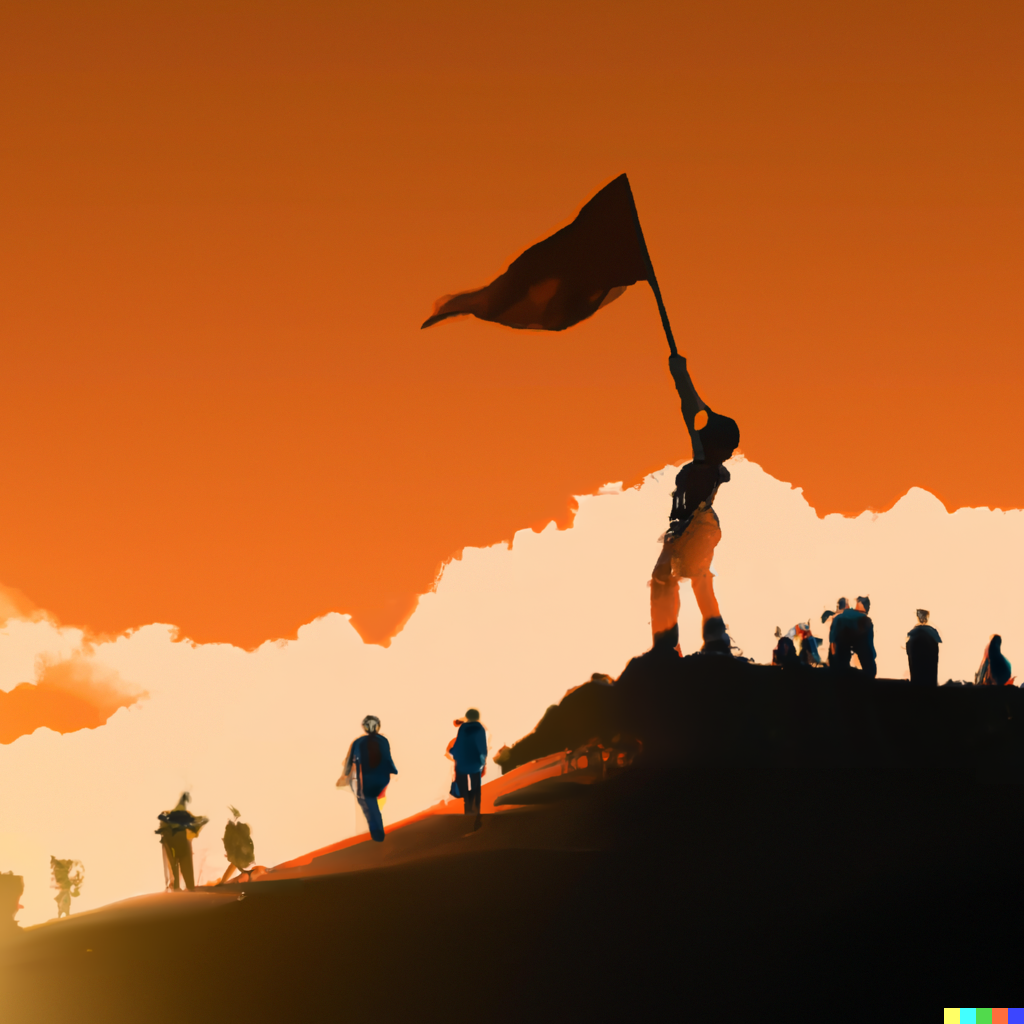
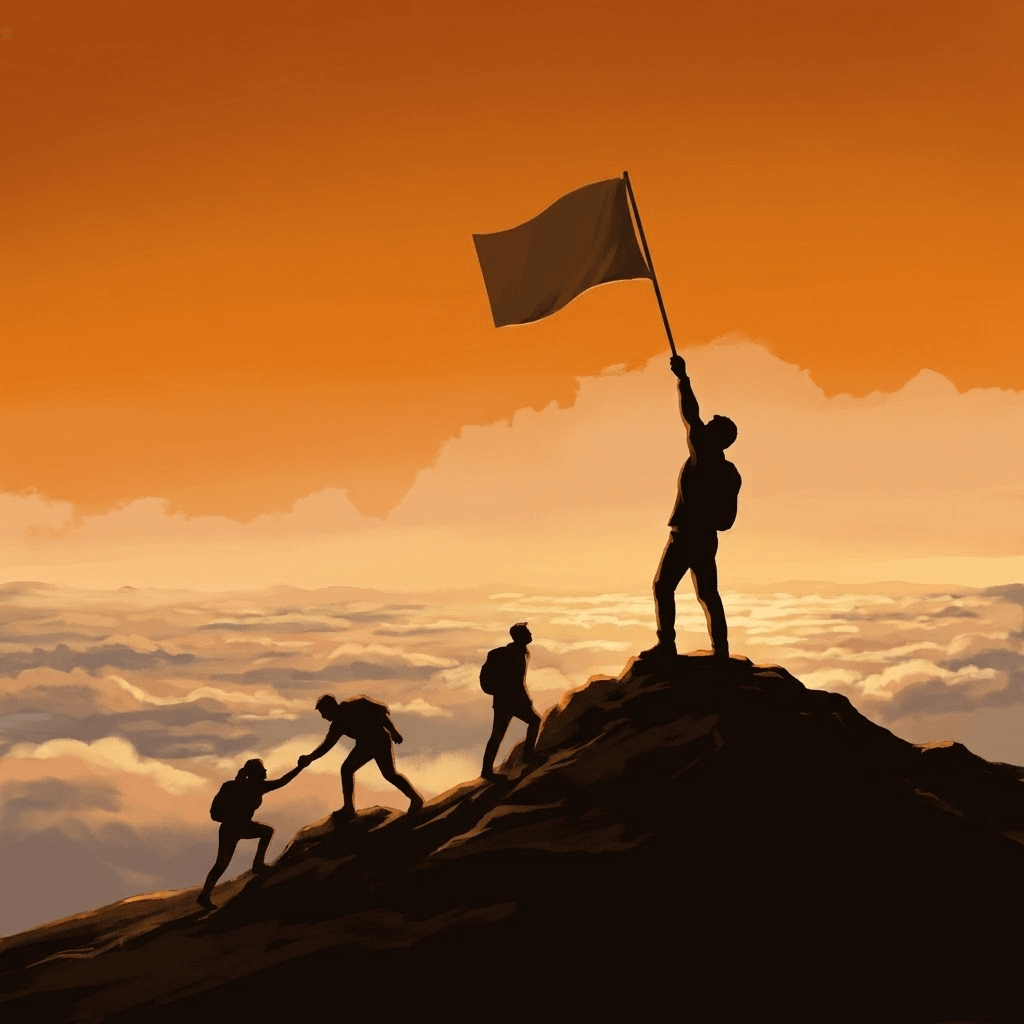
Fix API goal visibility, API writes with undefined fields, milestone deadlines and goal edit visibility
- POST /v1/goals keeps uid in the stakeholder document, so API and MCP goals show up for their owner
- Admin Firestore ignores undefined properties, so posts, goals and milestones without optional fields no longer fail with a 500
- The API stores deadlines as end of day in Europe/Amsterdam instead of end of day UTC, which showed one day late
- createMilestone no longer applies endOfDay itself; the app already does that on write in the user's time zone
- The goal edit form starts from the goal's publicity instead of always "private"
- "Sign up" typo in the auth modal
- New default goal image (no watermark, 200 KB instead of 1.2 MB)

diff --git a/apps/functions/src/https/api/v1/goals.ts b/apps/functions/src/https/api/v1/goals.ts
@@ -6,6 +6,21 @@ import { requireScope } from '../../../shared/api-key'
 
 export const goalsRouter = Router()
 
+// Users have no stored time zone yet and most are in Europe. Functions run in UTC,
+// so date-fns' endOfDay would end the day an hour or two late for them.
+const DEADLINE_TIME_ZONE = 'Europe/Amsterdam'
+
+/** A deadline is the end of its day, like the app's endOfDay, regardless of the time the caller sent. */
+function parseDeadline(value: string): Date {
+  const day = /^\d{4}-\d{2}-\d{2}$/.test(value)
+    ? value
+    : new Date(value).toLocaleDateString('sv-SE', { timeZone: DEADLINE_TIME_ZONE }) // sv-SE formats as YYYY-MM-DD
+  const offset = new Intl.DateTimeFormat('en-US', { timeZone: DEADLINE_TIME_ZONE, timeZoneName: 'longOffset' })
+    .formatToParts(new Date(`${day}T12:00:00Z`))
+    .find(part => part.type === 'timeZoneName')?.value.replace('GMT', '') || '+00:00'
+  return new Date(`${day}T23:59:59.999${offset}`)
+}
+
 // GET /v1/goals — list goals where key owner is a stakeholder
 goalsRouter.get('/', requireScope('goals:read'), async (req, res) => {
   const uid = req.apiKey?.uid
@@ -84,7 +99,7 @@ goalsRouter.post('/', requireScope('goals:write'), async (req, res) => {
     id: goalId,
     title,
     description: description || '',
-    deadline: deadline ? new Date(deadline) : undefined,
+    deadline: deadline ? parseDeadline(deadline) : undefined,
     publicity: publicity === 'public' ? 'public' : 'private',
     image: image || '',
     createdAt: now,
@@ -104,8 +119,8 @@ goalsRouter.post('/', requireScope('goals:write'), async (req, res) => {
     updatedAt: now,
   })
 
-  const { uid: _sUid, ...stakeholderData } = stakeholder
-  await db.doc(`Goals/${goalId}/GStakeholders/${uid}`).set(stakeholderData)
+  // Keep uid in the document: the app and GET /goals look stakeholders up by it
+  await db.doc(`Goals/${goalId}/GStakeholders/${uid}`).set(stakeholder)
 
   const { id: _, ...goalData } = goal
   await db.doc(`Goals/${goalId}`).set(goalData)
@@ -144,7 +159,7 @@ goalsRouter.patch('/:goalId', requireScope('goals:write'), async (req, res) => {
   for (const field of allowedFields) {
     if (req.body[field] !== undefined) {
       if (field === 'deadline') {
-        update[field] = new Date(req.body[field])
+        update[field] = parseDeadline(req.body[field])
       } else if (field === 'status' && !['pending', 'succeeded', 'failed'].includes(req.body[field])) {
         res.status(400).json({ error: 'status must be one of: pending, succeeded, failed' })
         return
@@ -255,7 +270,7 @@ goalsRouter.post('/:goalId/milestones', requireScope('milestones:write'), async 
   const milestone = createMilestone({
     content,
     description: description || '',
-    deadline: deadline ? new Date(deadline) : undefined,
+    deadline: deadline ? parseDeadline(deadline) : undefined,
     order: typeof order === 'number' ? order : 0,
     subtasks: Array.isArray(subtasks) ? subtasks : [],
     deletedAt: null,
@@ -301,7 +316,7 @@ goalsRouter.patch('/:goalId/milestones/:milestoneId', requireScope('milestones:w
   for (const field of allowedFields) {
     if (req.body[field] !== undefined) {
       if (field === 'deadline') {
-        update[field] = new Date(req.body[field])
+        update[field] = parseDeadline(req.body[field])
       } else if (field === 'status' && !['pending', 'succeeded', 'failed'].includes(req.body[field])) {
         res.status(400).json({ error: 'status must be one of: pending, succeeded, failed' })
         return

diff --git a/libs/auth/src/lib/components/auth-modal/auth-modal.page.html b/libs/auth/src/lib/components/auth-modal/auth-modal.page.html
@@ -93,15 +93,15 @@
         <article class="oauth">
           <ion-button fill="outline" (click)="loginWithGoogle()">
             <ion-icon name="logo-google" slot="start" />
-            Sing up with Google
+            Sign up with Google
           </ion-button>
           <ion-button fill="outline" (click)="loginWithApple()">
             <ion-icon name="logo-apple" slot="start" />
-            Sing up with Apple
+            Sign up with Apple
           </ion-button>
           <ion-button fill="outline" (click)="this.authSegmentChoice = enumAuthSegment.register_email">
             <ion-icon name="mail" slot="start" />
-            Sing up with Email
+            Sign up with Email
           </ion-button>
         </article>
         <hr />

diff --git a/libs/goal/src/lib/forms/goal.form.ts b/libs/goal/src/lib/forms/goal.form.ts
@@ -8,7 +8,7 @@ function createGoalFormControl(params?: Partial<Goal>) {
     description: new FormControl(goal.description, { nonNullable: true }),
     image: new FormControl(goal.image, { nonNullable: true }),
     deadline: new FormControl(goal.deadline, { nonNullable: true, validators: [Validators.required] }),
-    publicity: new FormControl<GoalPublicityType>('private', { nonNullable: true }),
+    publicity: new FormControl<GoalPublicityType>(goal.publicity, { nonNullable: true }),
     title: new FormControl(goal.title, { nonNullable: true, validators: [Validators.required]}),
     categories: new FormControl(goal.categories, { nonNullable: true }),
     location: new FormControl<GoalLocation | null>(goal.location ?? null)

diff --git a/libs/model/src/lib/milestone.ts b/libs/model/src/lib/milestone.ts
@@ -1,5 +1,4 @@
 import { User } from '@strive/model'
-import { endOfDay } from 'date-fns'
 
 export type MilestoneStatus = 'pending' | 'succeeded' | 'failed'
 
@@ -38,7 +37,7 @@ export function createMilestone(params: Partial<Milestone> = {}): Milestone {
     deletedAt: params.deletedAt ?? null
   }
 
-  if (params.deadline) milestone.deadline = endOfDay(new Date(params.deadline))
+  if (params.deadline) milestone.deadline = new Date(params.deadline)
   if (params.updatedBy) milestone.updatedBy = params.updatedBy
   if (params.updatedAt) milestone.updatedAt = params.updatedAt
   if (params.createdAt) milestone.createdAt = params.createdAt

diff --git a/libs/api/src/lib/utils/firebase.ts b/libs/api/src/lib/utils/firebase.ts
@@ -19,6 +19,8 @@ if (admin.apps.length === 0) {
 	admin.initializeApp()
 }
 export const db = admin.firestore()
+// Optional fields built as `value || undefined` would otherwise make the whole write throw
+db.settings({ ignoreUndefinedProperties: true })
 export const auth = admin.auth()
 
 export const serverTimestamp = admin.firestore.FieldValue.serverTimestamp

diff --git a/apps/journal-e2e/src/support/auth.po.ts b/apps/journal-e2e/src/support/auth.po.ts
@@ -4,7 +4,7 @@ export function openAuthModal() {
 
 export function navigateToSignup() {
   // "Create goal" opens the modal in register mode, so we're already on the signup view
-  cy.contains('ion-button', 'Sing up with Email').click();
+  cy.contains('ion-button', 'Sign up with Email').click();
 }
 
 export function navigateToLogin() {
